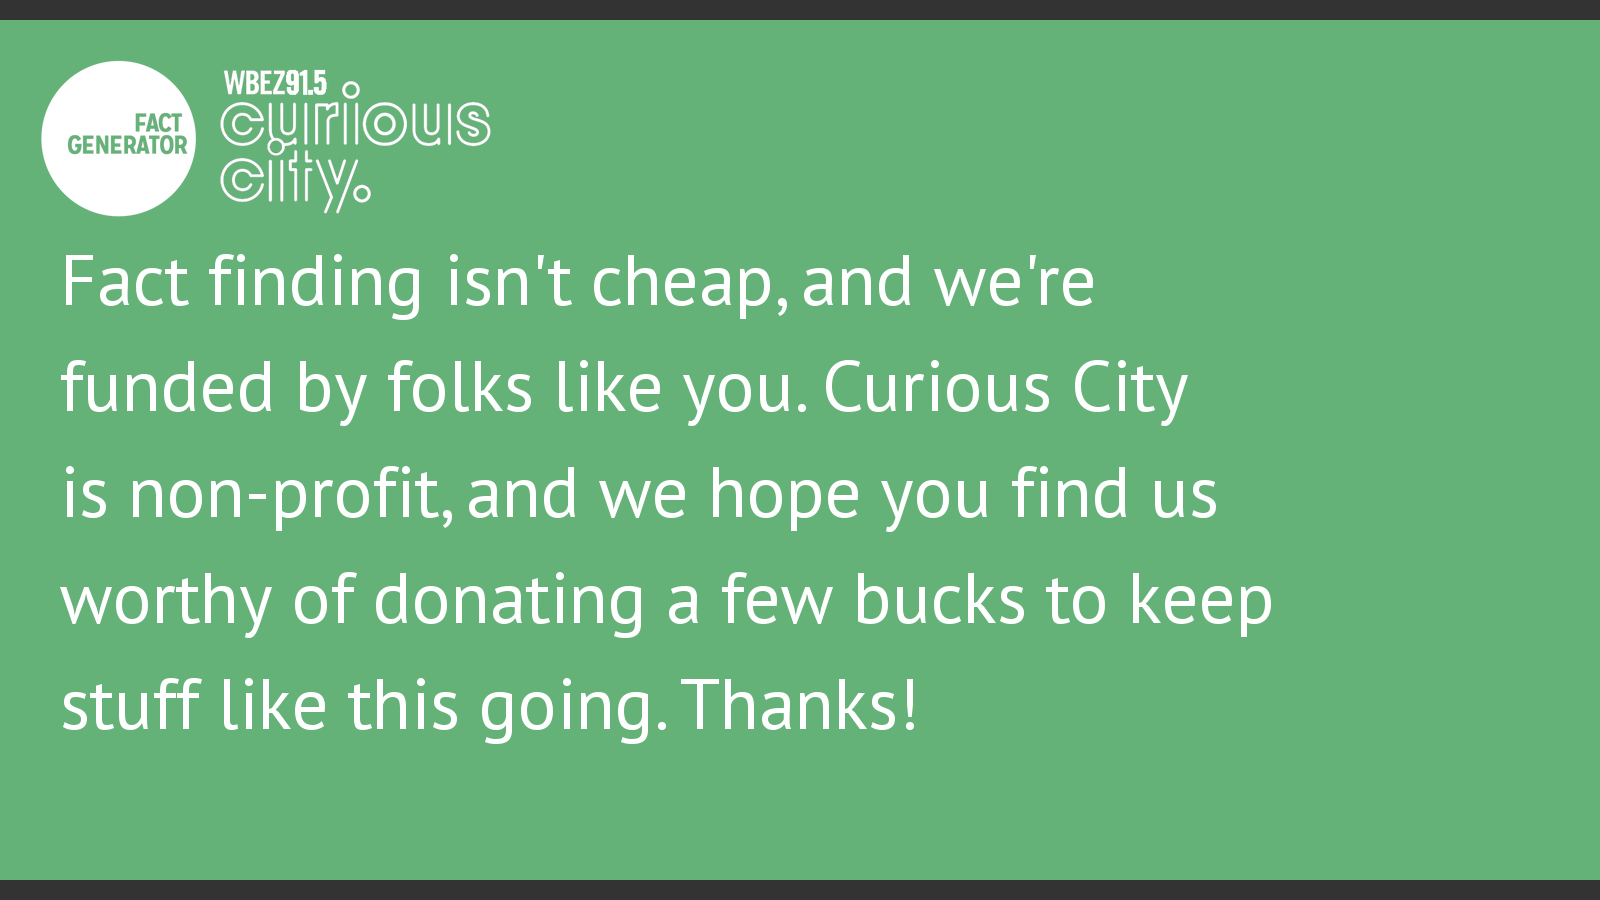
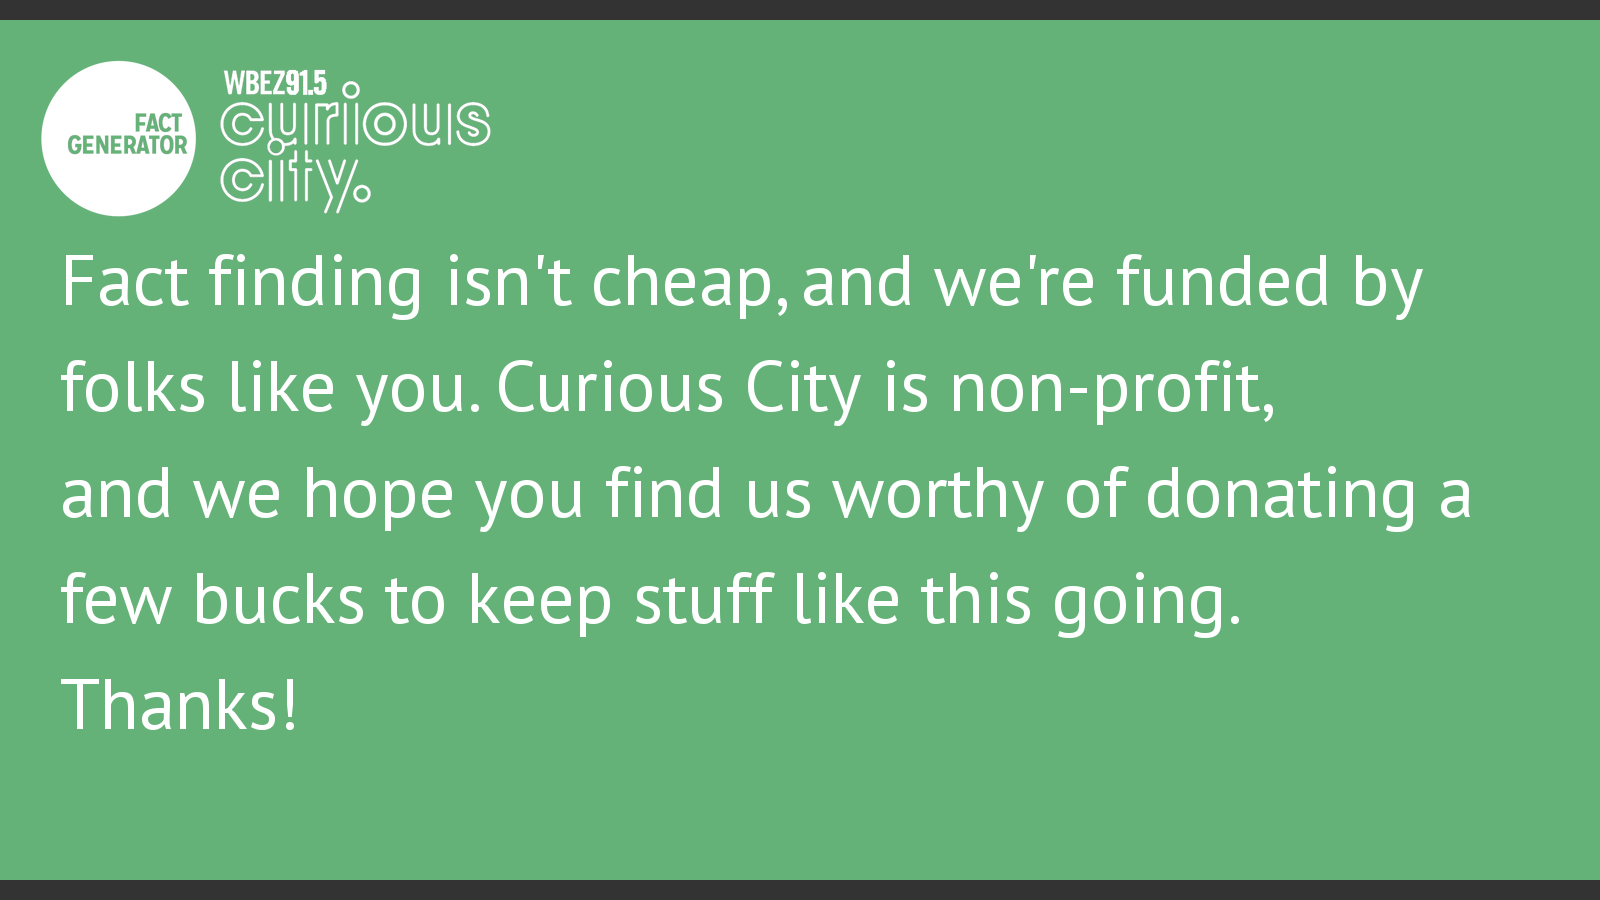
change line of wrap for share images

diff --git a/scripts/image_creation.py b/scripts/image_creation.py
@@ -30,7 +30,7 @@ with open(JSON_DATA) as data:
 		margin = 60
 		offset = 240
 		text = fact['FactText']
-		wrap = textwrap.wrap(text, width=40)
+		wrap = textwrap.wrap(text, width=45)
 
 		for line in wrap:
 			draw.text((margin, offset), line, font=font, fill="#fff")
